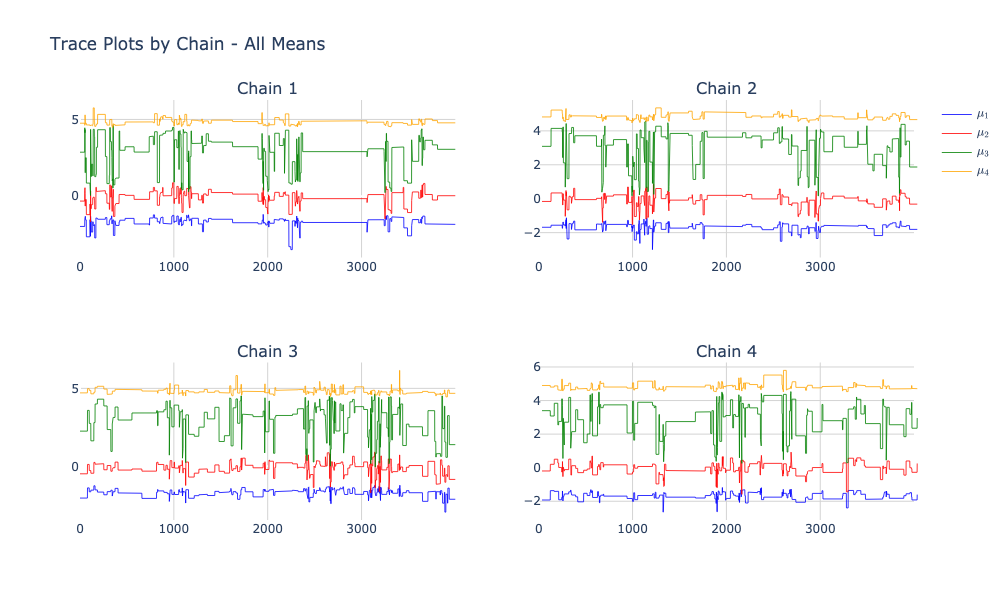
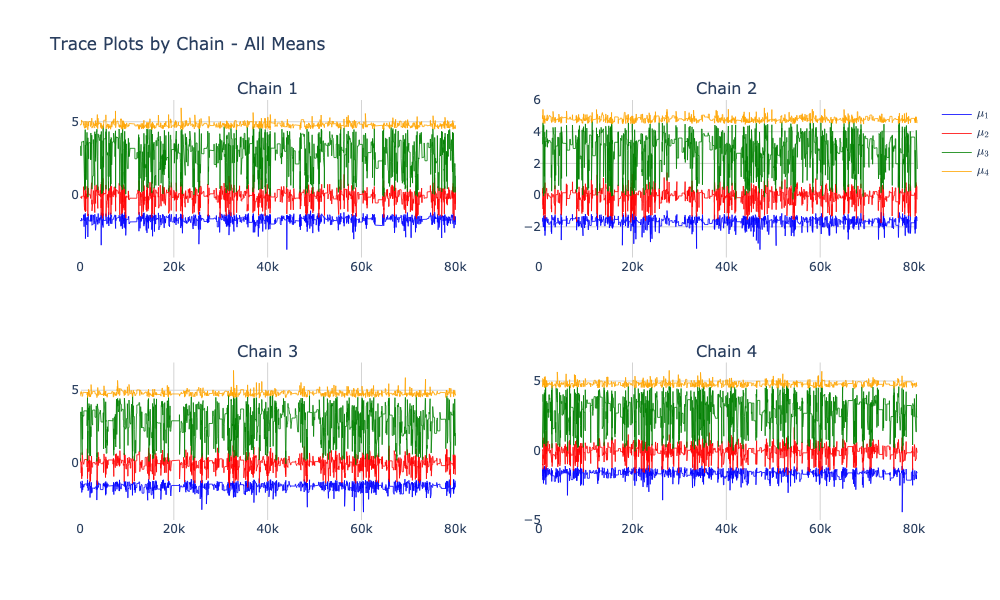
run for 100K iterations

diff --git a/scripts/samplers.py b/scripts/samplers.py
@@ -56,9 +56,7 @@ def compute_log_likelihood(y: np.ndarray, state: State) -> float:
     return log_like
 
 
-def create_temperature_ladder(
-    n_temps: int, max_temp: float, keep_last: bool = False
-) -> np.ndarray:
+def create_temperature_ladder(n_temps: int, max_temp: float) -> np.ndarray:
     """Create a temperature ladder for tempered Gibbs sampling.
 
     Creates a geometric sequence of temperatures from 1/max_temp to 1.0,
@@ -67,16 +65,12 @@ def create_temperature_ladder(
     Args:
         n_temps: Number of temperatures in the ladder.
         max_temp: Maximum temperature (1/beta_min).
-        keep_last: Whether to include the reverse sequence for bidirectional tempering.
 
     Returns:
         Array of temperatures from 0 to 1.
     """
     temps = np.geomspace(1.0 / max_temp, 1.0, n_temps)
-    if keep_last:
-        return np.hstack([temps[::-1], temps])
-
-    return np.hstack([temps[-2::-1], temps])
+    return np.hstack([temps[:0:-1], temps])
 
 
 def sample_z(
@@ -272,7 +266,6 @@ def _run_single_chain(args):
         max_temp,
         n_gibbs_per_temp,
         placebo,
-        keep_last,
     ) = args
 
     return run_chain(
@@ -285,7 +278,6 @@ def _run_single_chain(args):
         max_temp,
         n_gibbs_per_temp,
         placebo,
-        keep_last,
     )
 
 
@@ -299,7 +291,6 @@ def run_chain(
     max_temp: float = 5.0,
     n_gibbs_per_temp: int = 5,
     placebo: bool = False,
-    keep_last: bool = False,
 ):
     """Run a single tempered transitions chain.
 
@@ -316,7 +307,6 @@ def run_chain(
         max_temp: Maximum temperature (1/beta_min).
         n_gibbs_per_temp: Number of Gibbs steps per temperature.
         placebo: Whether to use placebo relabeling to avoid label switching.
-        keep_last: Whether to keep the last temperature in the ladder.
 
     Returns:
         Tuple of (samples, runtime, acceptance_rate) where samples contains the
@@ -325,7 +315,7 @@ def run_chain(
     """
     rng = np.random.default_rng(seed)
 
-    temperatures_ladder = create_temperature_ladder(n_temps, max_temp, keep_last)
+    temperatures_ladder = create_temperature_ladder(n_temps, max_temp)
     state = State(rng.integers(0, K, len(y)), np.ones(K) / K, rng.normal(0, 1, K))
 
     kept = []
@@ -361,7 +351,6 @@ def run_parallel_chains(
     max_temp: float = 5.0,
     n_gibbs_per_temp: int = 5,
     placebo: bool = False,
-    keep_last: bool = False,
 ) -> Tuple[List[np.ndarray], List[float], List[float]]:
     """Run multiple chains in parallel using multiprocessing.
 
@@ -380,7 +369,6 @@ def run_parallel_chains(
         max_temp: Maximum temperature (1/beta_min).
         n_gibbs_per_temp: Number of Gibbs steps per temperature.
         placebo: Whether to use placebo relabeling to avoid label switching.
-        keep_last: Whether to keep the last temperature in the ladder.
 
     Returns:
         Tuple of (all_samples, all_runtimes, all_acceptance_rates) where:
@@ -405,7 +393,6 @@ def run_parallel_chains(
             max_temp,
             n_gibbs_per_temp,
             placebo,
-            keep_last,
         )
         for seed in seeds
     ]

diff --git a/scripts/plots.py b/scripts/plots.py
@@ -65,7 +65,7 @@ def create_trace_plots(
     fig_trace_all = sp.make_subplots(
         rows=n_rows,
         cols=n_cols,
-        subplot_titles=[f"Chain {c+1}" for c in range(n_chains)],
+        subplot_titles=[f"Chain {c + 1}" for c in range(n_chains)],
     )
 
     for c, (row, col) in enumerate(positions):
@@ -75,7 +75,7 @@ def create_trace_plots(
                     y=chains[c][:, k],
                     mode="lines",
                     line={"width": 0.8, "color": param_colors[k]},
-                    name=f"$\\mu_{{{k+1}}}$",
+                    name=f"$\\mu_{{{k + 1}}}$",
                     showlegend=(c == 0),
                 ),
                 row=row,
@@ -117,7 +117,7 @@ def create_acf_plots(
     fig_acf_all = sp.make_subplots(
         rows=n_rows,
         cols=n_cols,
-        subplot_titles=[f"Chain {c+1}" for c in range(n_chains)],
+        subplot_titles=[f"Chain {c + 1}" for c in range(n_chains)],
     )
 
     for c, (row, col) in enumerate(positions):
@@ -130,7 +130,7 @@ def create_acf_plots(
                     mode="markers+lines",
                     line={"color": param_colors[k]},
                     marker={"color": param_colors[k]},
-                    name=f"$\\mu_{{{k+1}}}$",
+                    name=f"$\\mu_{{{k + 1}}}$",
                     showlegend=(c == 0),
                 ),
                 row=row,
@@ -172,7 +172,7 @@ def create_histogram_plots(
     fig_hist_all = sp.make_subplots(
         rows=n_rows,
         cols=n_cols,
-        subplot_titles=[f"Chain {c+1}" for c in range(n_chains)],
+        subplot_titles=[f"Chain {c + 1}" for c in range(n_chains)],
     )
 
     for c, (row, col) in enumerate(positions):
@@ -183,7 +183,7 @@ def create_histogram_plots(
                     nbinsx=30,
                     opacity=0.6,
                     marker={"color": param_colors[k]},
-                    name=f"$\\mu_{{{k+1}}}$",
+                    name=f"$\\mu_{{{k + 1}}}$",
                     showlegend=(c == 0),
                 ),
                 row=row,

diff --git a/scripts/comparison_tool.py b/scripts/comparison_tool.py
@@ -48,7 +48,6 @@ def run_comparison(args, show_summary=True):
         n_temps=args.n_temps,
         max_temp=args.max_temp,
         n_gibbs_per_temp=args.n_gibbs_per_temp,
-        keep_last=True,
     )
     tempered_time = time.time() - start_time
 
@@ -101,7 +100,6 @@ def run_comparison(args, show_summary=True):
                 "n_temps": args.n_temps,
                 "max_temp": args.max_temp,
                 "n_gibbs_per_temp": args.n_gibbs_per_temp,
-                "keep_last": True,
             },
         },
     }
@@ -180,7 +178,7 @@ def create_trace_plots(gibbs_samples, tempered_samples, K):
     fig = sp.make_subplots(
         rows=1,
         cols=K,
-        subplot_titles=[f"$\\mu_{{{k+1}}}$" for k in range(K)],
+        subplot_titles=[f"$\\mu_{{{k + 1}}}$" for k in range(K)],
         horizontal_spacing=0.05,
     )
 
@@ -232,7 +230,7 @@ def create_acf_plots(gibbs_samples, tempered_samples, K, max_lag=40):
     fig = sp.make_subplots(
         rows=1,
         cols=K,
-        subplot_titles=[f"$\\mu_{{{k+1}}}$" for k in range(K)],
+        subplot_titles=[f"$\\mu_{{{k + 1}}}$" for k in range(K)],
         horizontal_spacing=0.05,
     )
 
@@ -288,7 +286,7 @@ def create_histogram_plots(gibbs_samples, tempered_samples, gibbs_ci, tempered_c
     fig = sp.make_subplots(
         rows=1,
         cols=K,
-        subplot_titles=[f"$\\mu_{{{k+1}}}$" for k in range(K)],
+        subplot_titles=[f"$\\mu_{{{k + 1}}}$" for k in range(K)],
         horizontal_spacing=0.05,
     )
 
@@ -362,7 +360,7 @@ def create_complete_plot(gibbs_samples, tempered_samples, gibbs_ci, tempered_ci,
     fig = sp.make_subplots(
         rows=3,
         cols=K,
-        subplot_titles=[f"$\\mu_{{{k+1}}}$" for k in range(K)] + [""] * (2 * K),
+        subplot_titles=[f"$\\mu_{{{k + 1}}}$" for k in range(K)] + [""] * (2 * K),
         specs=[
             [{"secondary_y": False} for _ in range(K)],
             [{"secondary_y": False} for _ in range(K)],

diff --git a/scripts/tempered_transitions.py b/scripts/tempered_transitions.py
@@ -18,11 +18,11 @@ if __name__ == "__main__":
     )
     ap.add_argument("--data", type=str, default="example_1", help="Data directory")
     ap.add_argument("--K", type=int, default=4, help="Number of mixture components")
-    ap.add_argument("--n_iter", type=int, default=5000, help="Number of iterations")
-    ap.add_argument("--burn", type=int, default=1000, help="Burn-in period")
+    ap.add_argument("--n_iter", type=int, default=10000, help="Number of iterations")
+    ap.add_argument("--burn", type=int, default=2000, help="Burn-in period")
     ap.add_argument("--chains", type=int, default=4, help="Number of chains")
     ap.add_argument("--seed", type=int, default=0, help="Random seed")
-    ap.add_argument("--n_temps", type=int, default=20, help="Number of temperatures")
+    ap.add_argument("--n_temps", type=int, default=10, help="Number of temperatures")
     ap.add_argument("--max_temp", type=float, default=10.0, help="Maximum temperature")
     ap.add_argument(
         "--n_gibbs_per_temp", type=int, default=1, help="Gibbs steps per temperature"
@@ -44,7 +44,6 @@ if __name__ == "__main__":
         max_temp=args.max_temp,
         n_gibbs_per_temp=args.n_gibbs_per_temp,
         placebo=args.placebo,
-        keep_last=True,
     )
 
     create_diagnostic_plots(
